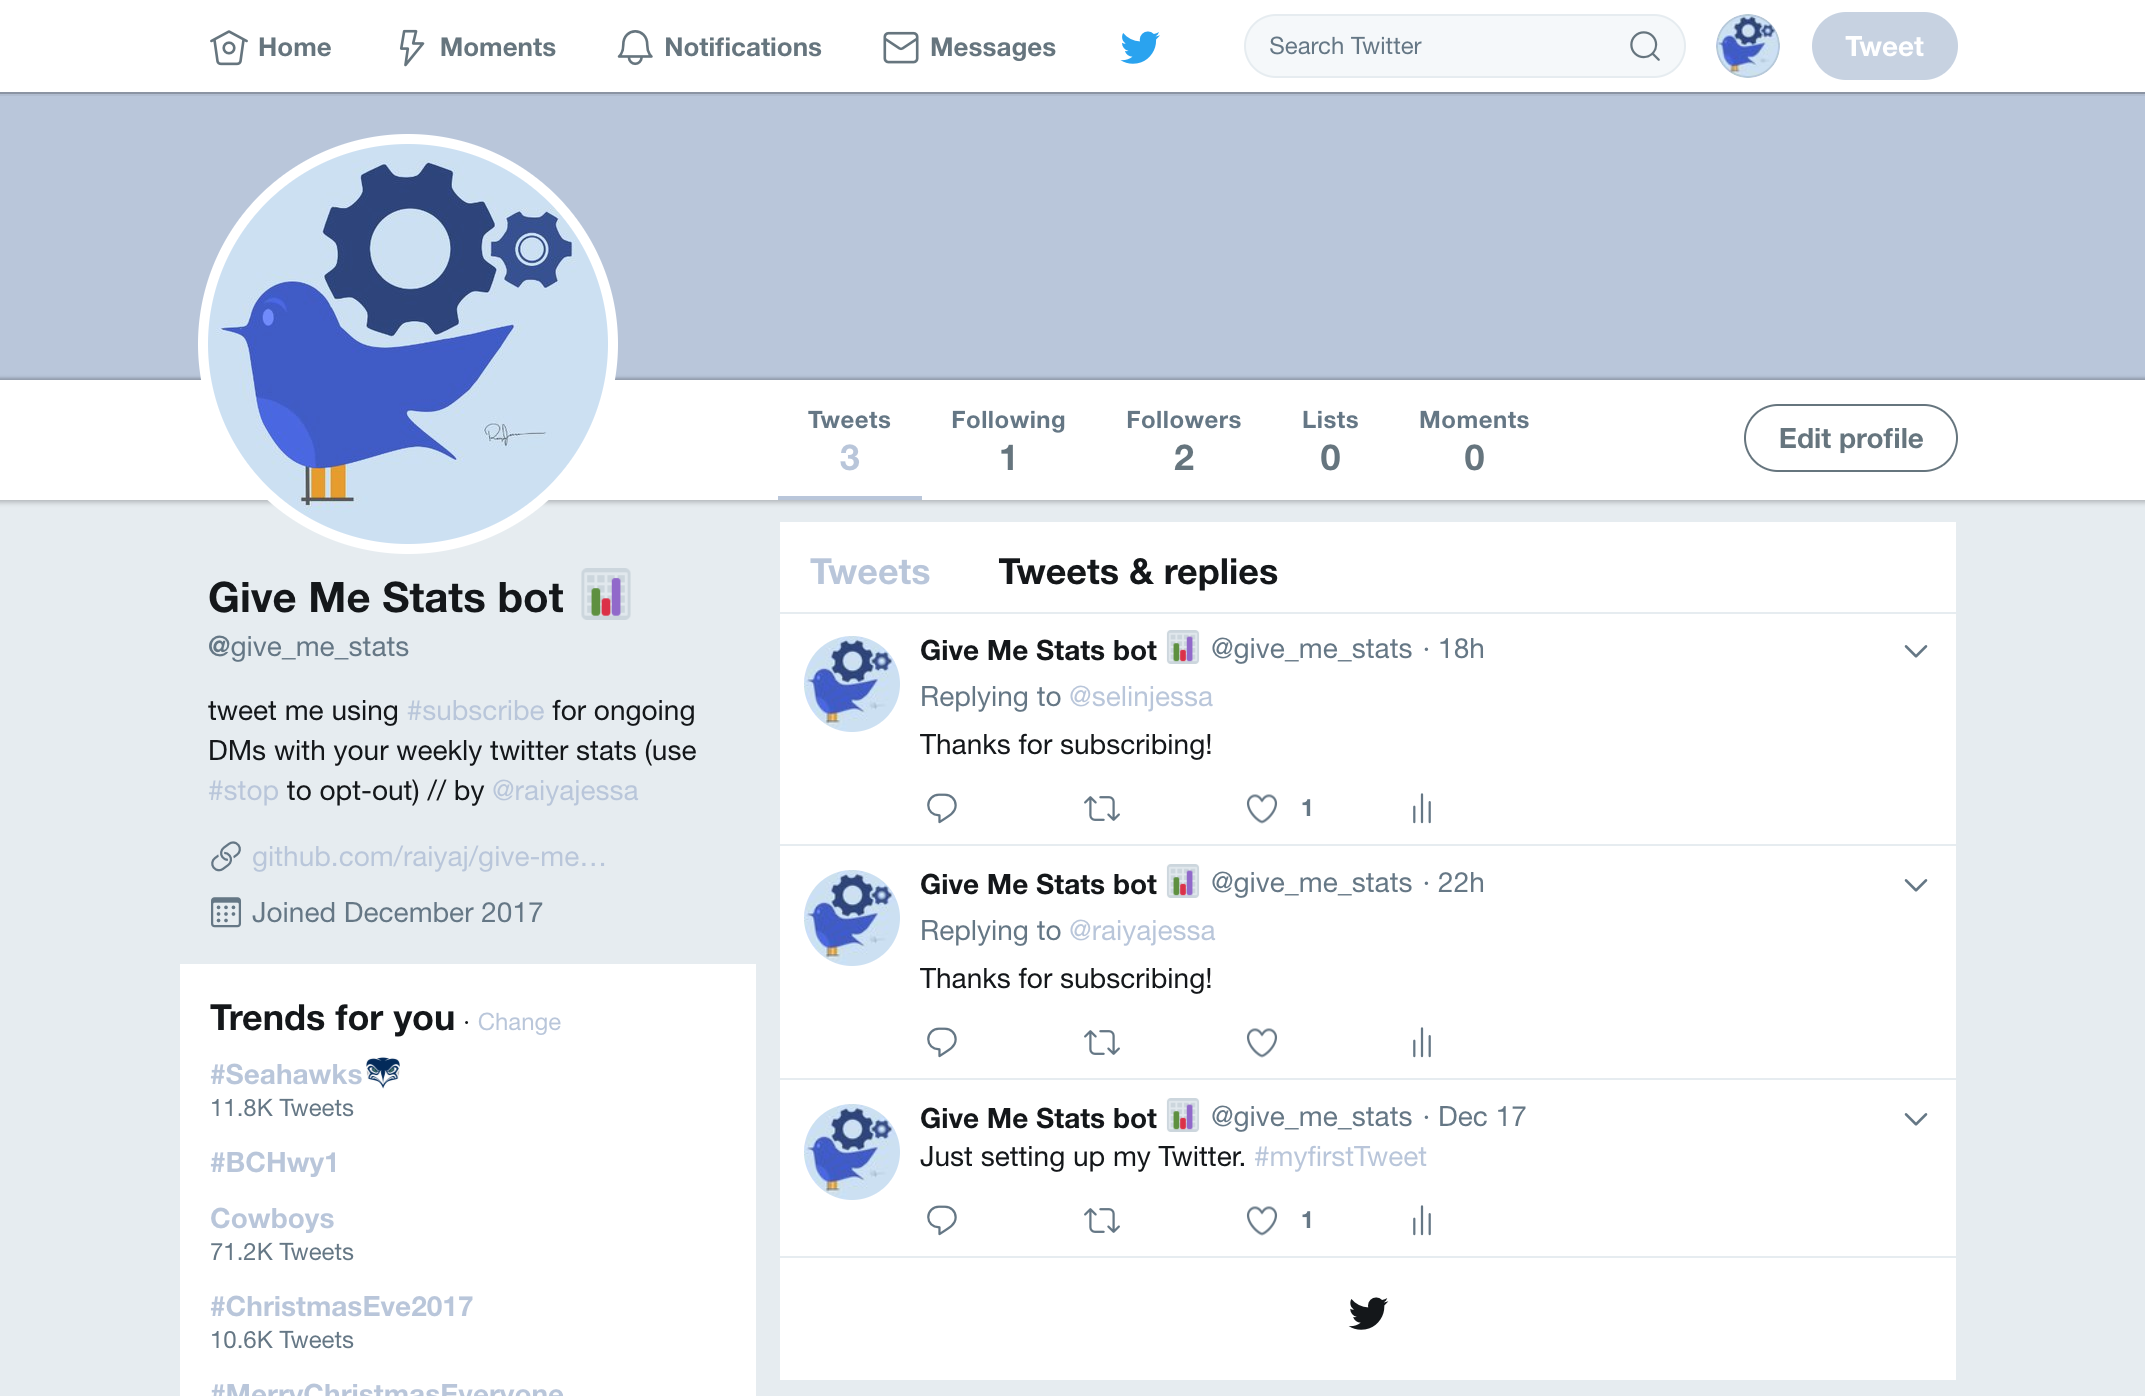
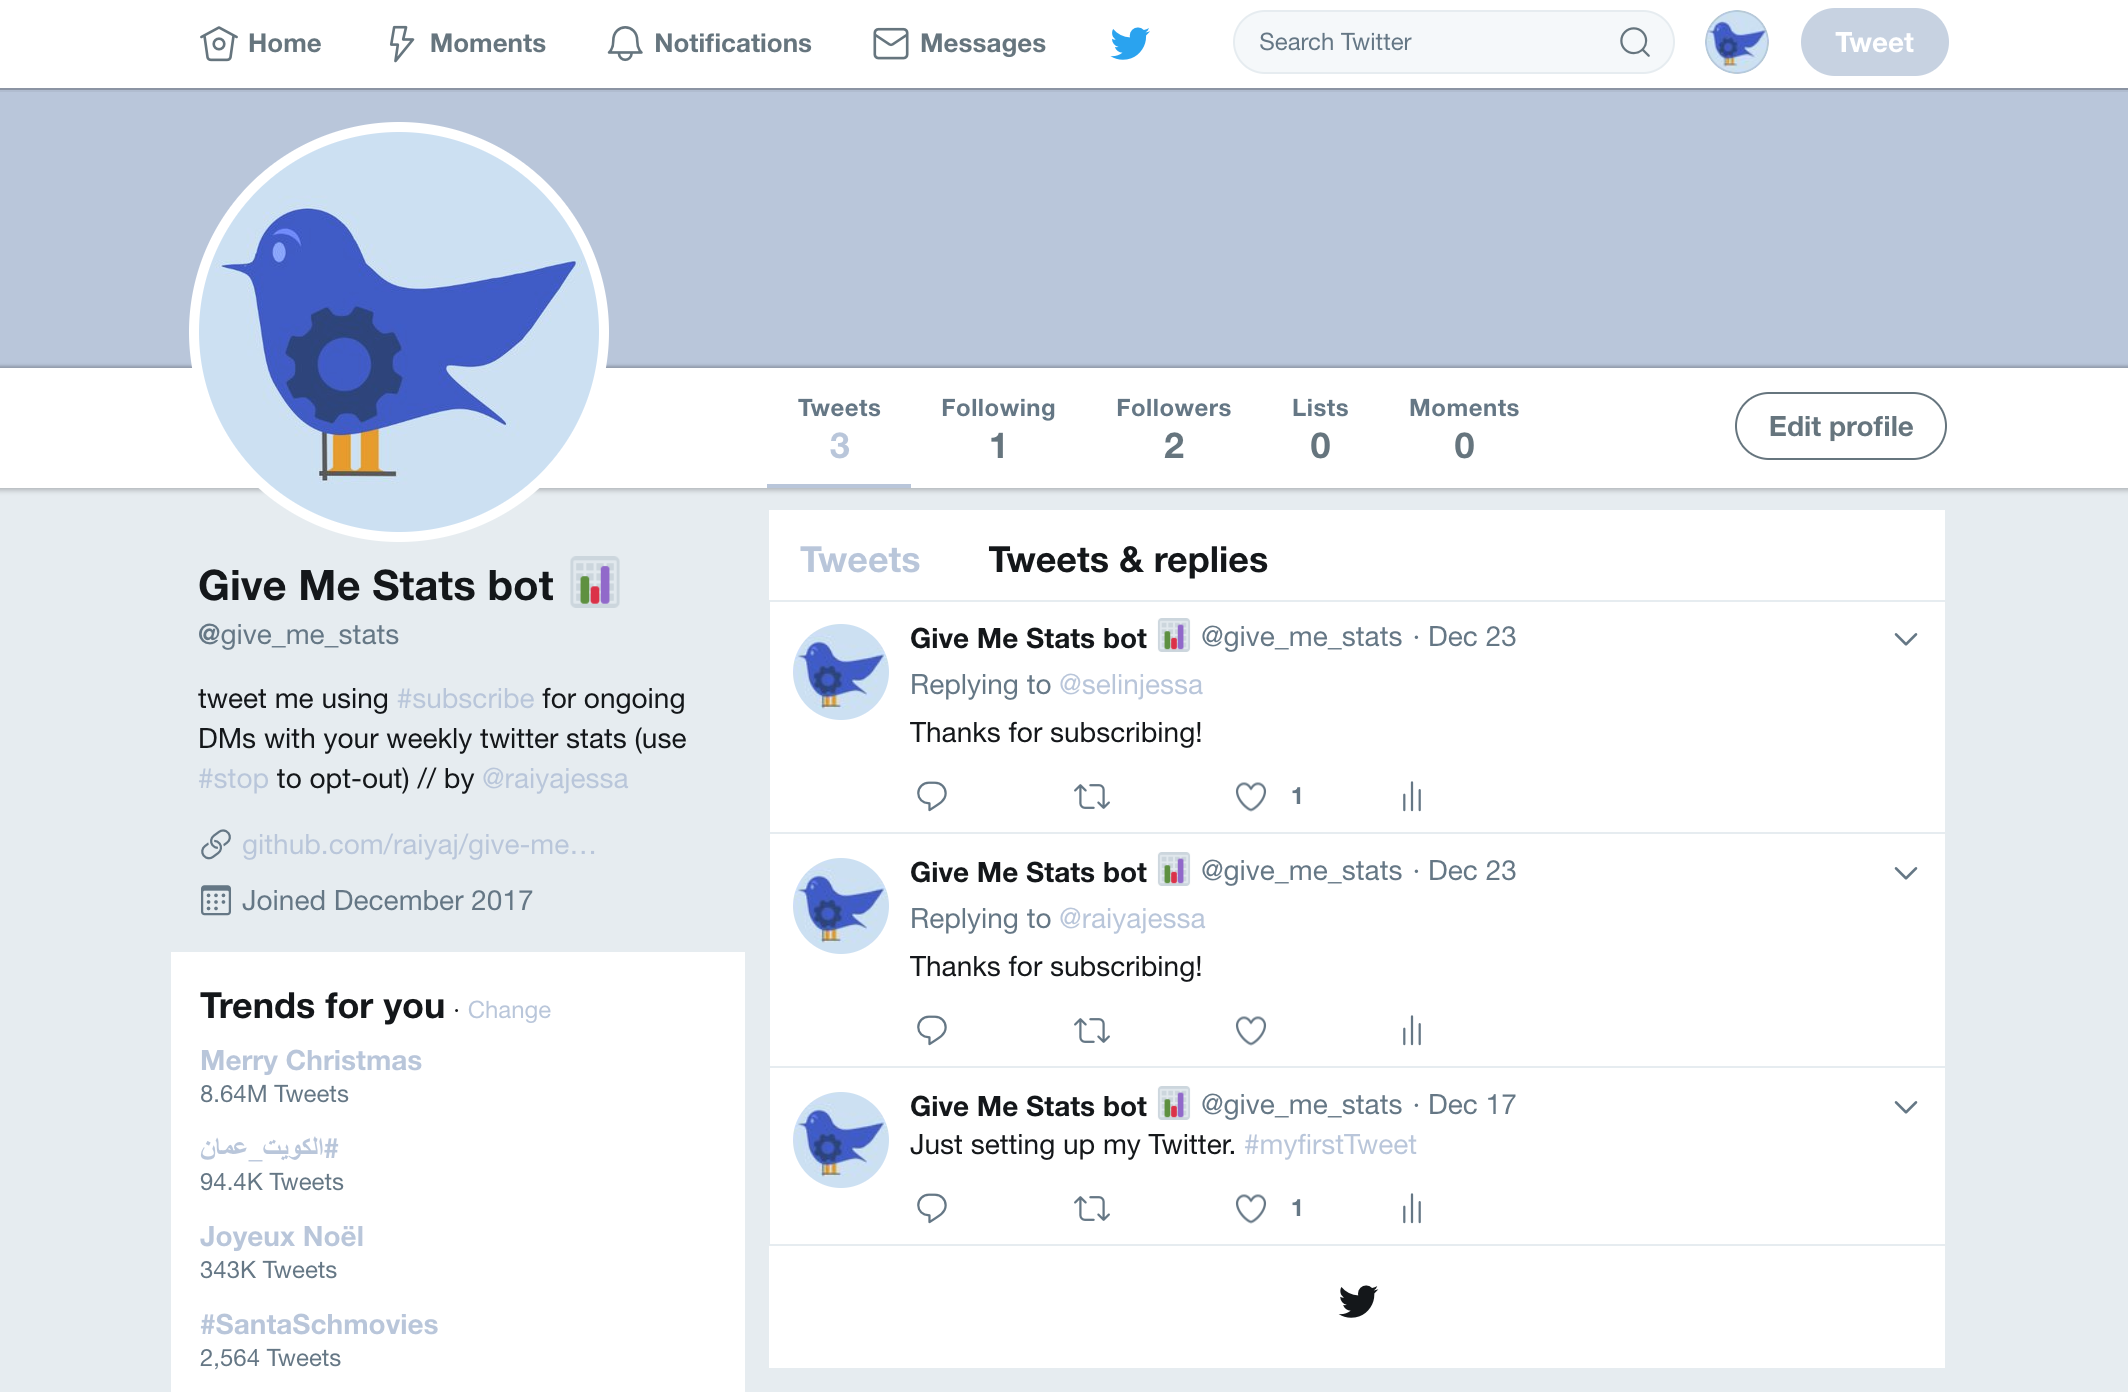
small fixes - update twitter bot image - give top & bottom margins to .button-container rather than to buttons - make header font even smaller on mobile

diff --git a/style.css b/style.css
@@ -230,11 +230,11 @@ body {
 
 @media screen and (max-width:499px) {
   #home header h1 {
-    font-size: 45px;
+    font-size: 40px;
     margin-bottom: -21px;
   }
   #home header .subtitle-two {
-    margin-right: 145px;
+    margin-right: 113px;
   }
 }
 
@@ -408,6 +408,8 @@ body {
 
 .card .button-container {
   text-align: center;
+  margin-top: -4px;
+  margin-bottom: 13px;
 }
 
 .card .button-container-inner {
@@ -425,8 +427,6 @@ body {
   border: none;
   border-radius: 1px;
   padding: 10px 18px;
-  margin-top: -4px;
-  margin-bottom: 13px;
 
   -webkit-transition: all 0.4s;
   -moz-transition: all 0.4s;
